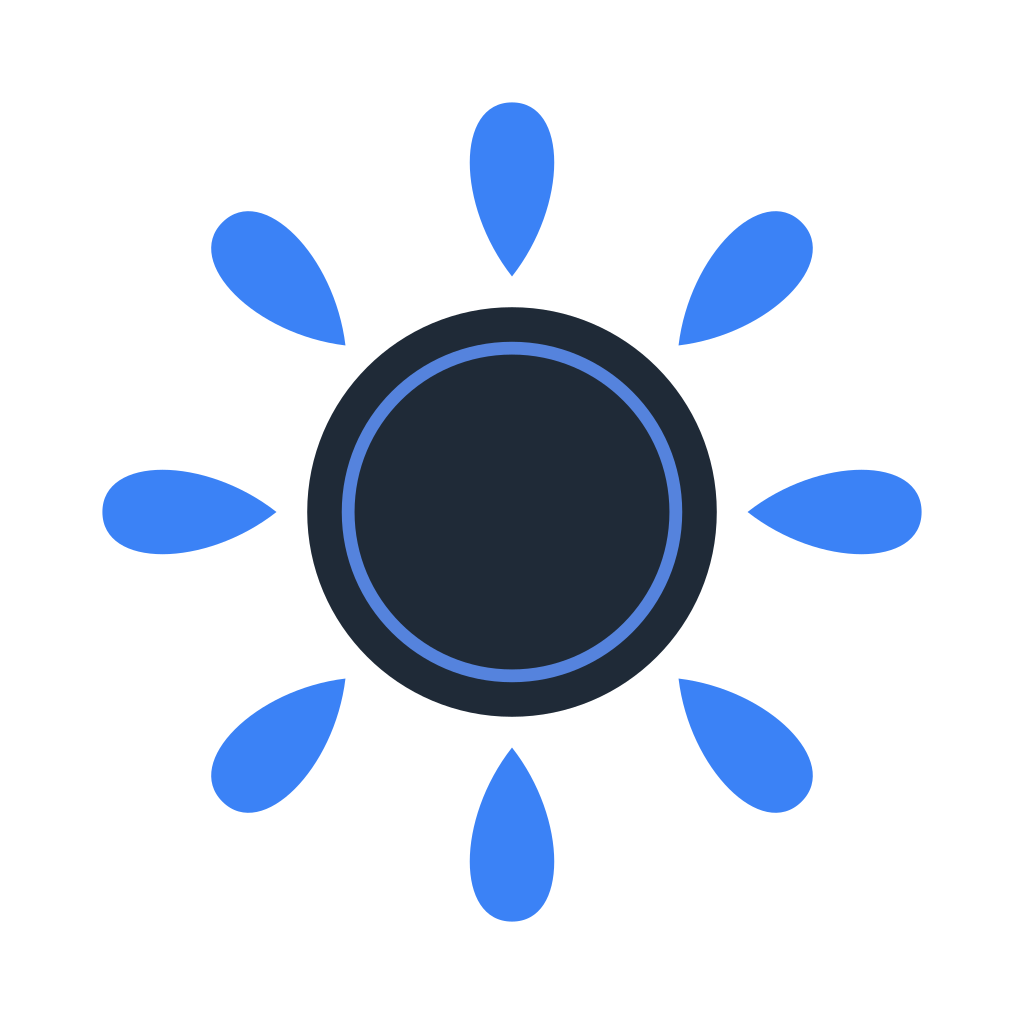
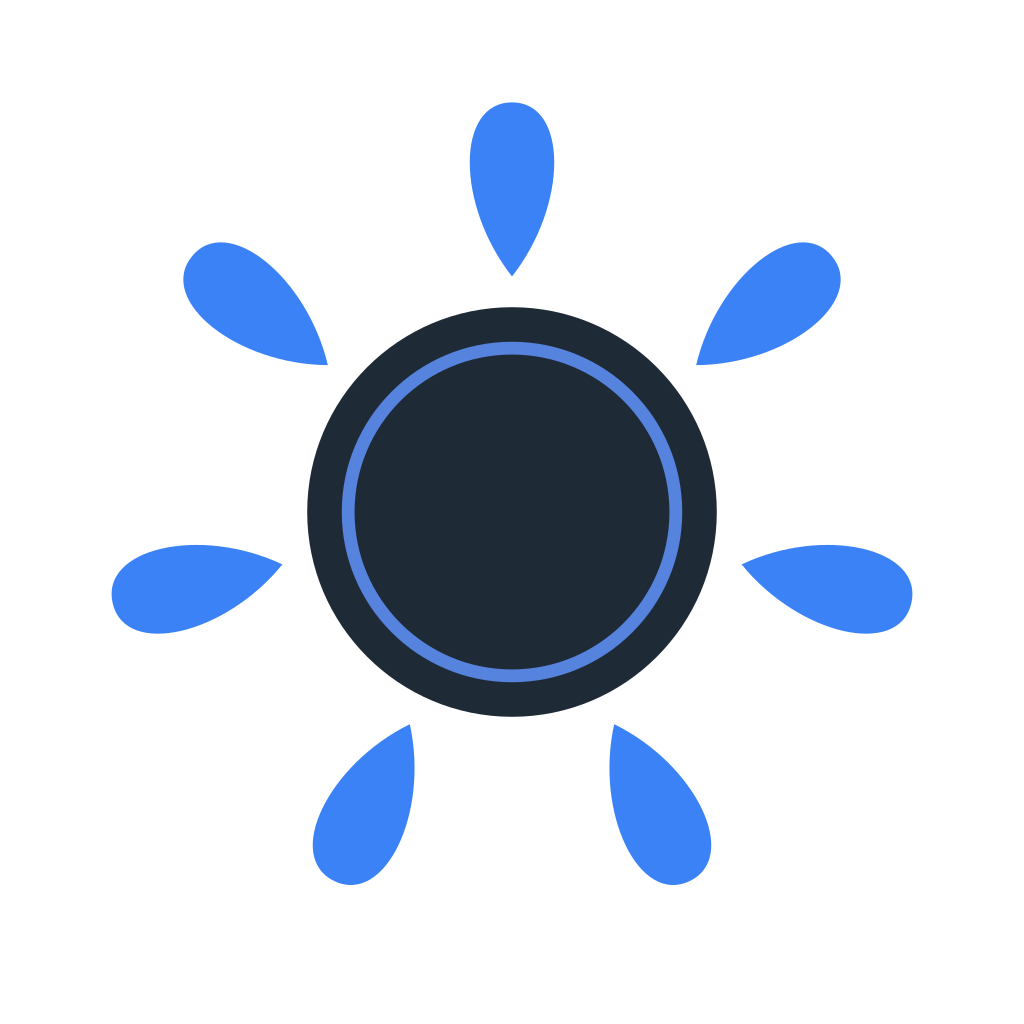
docs: seven drops, like the seven sides of the Kubernetes wheel

diff --git a/brand/README.md b/brand/README.md
@@ -5,8 +5,9 @@ documentation site, slides, and social cards copy from here; nothing redraws its
 
 ## The mark
 
-A round table seen from above, with water drops gathered around it, every drop's
-point aimed at the center. The table is the moot; the drops are the agents: many,
+A round table seen from above, with seven water drops gathered around it, every
+drop's point aimed at the center. Seven, like the seven sides of the Kubernetes
+wheel. The table is the moot; the drops are the agents: many,
 small, alike in form, each turned toward the shared decision. The image comes from
 the round table of the Arthurian legend: no head of the table, so no seat outranks
 another.
